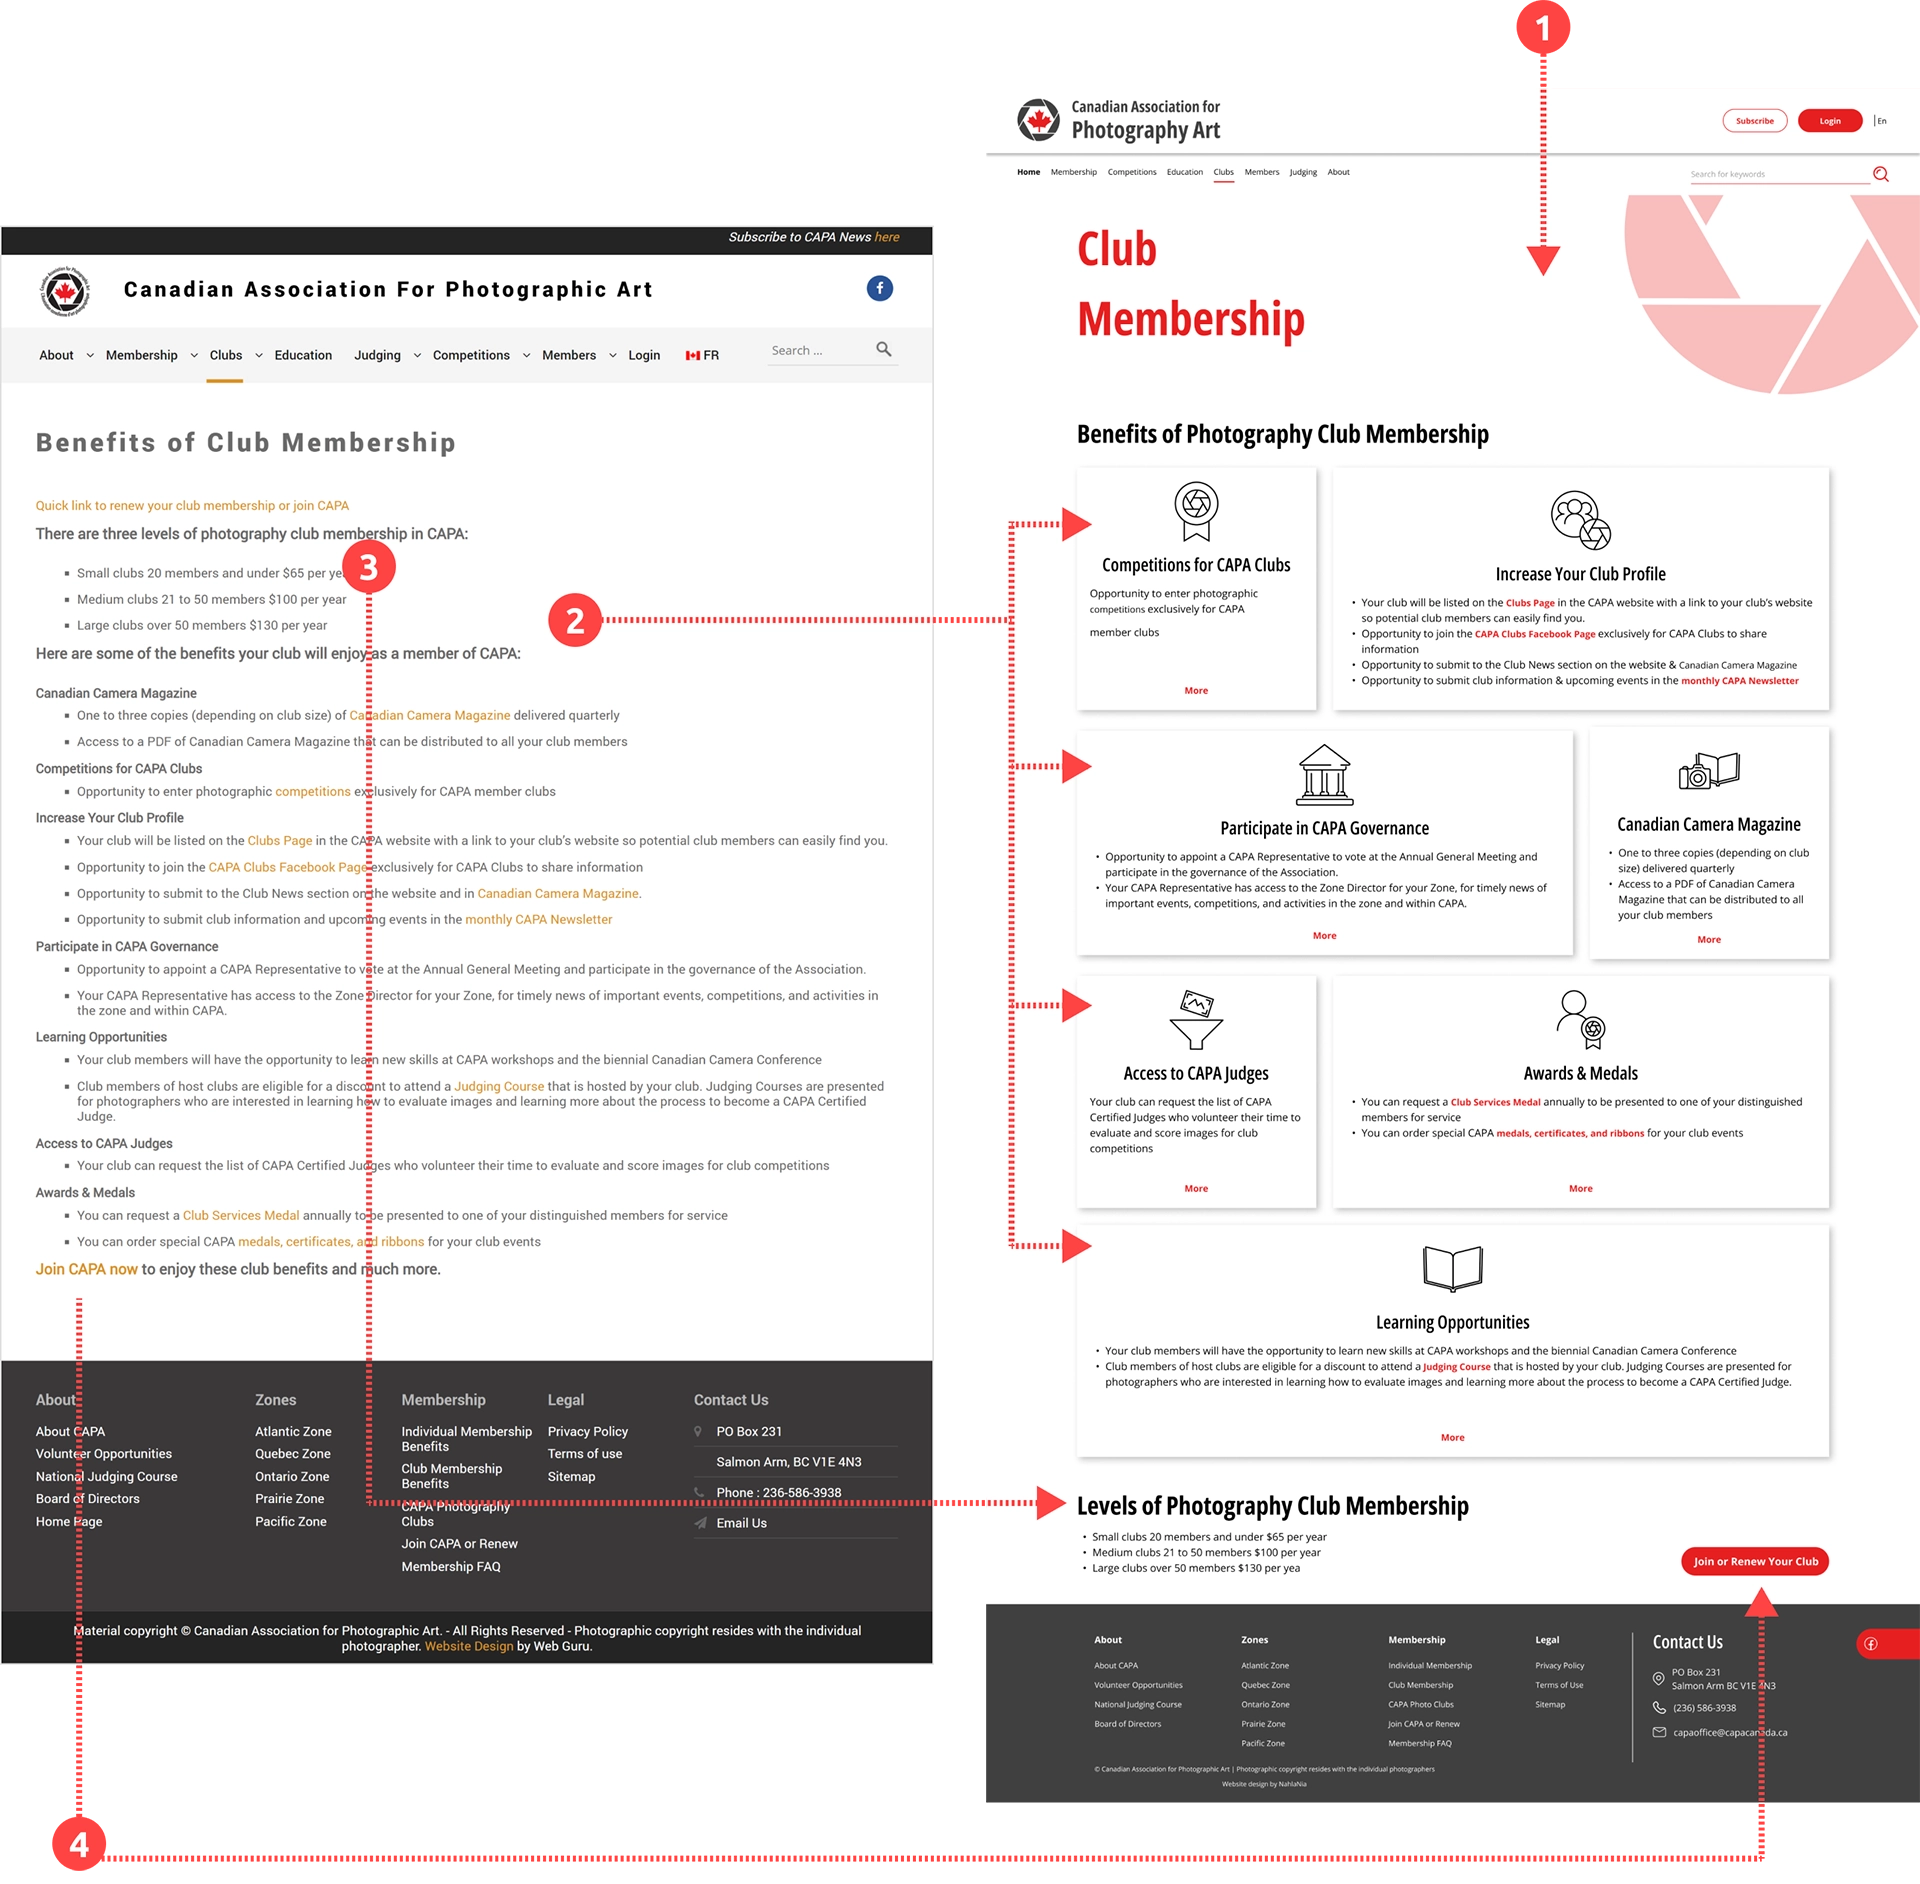
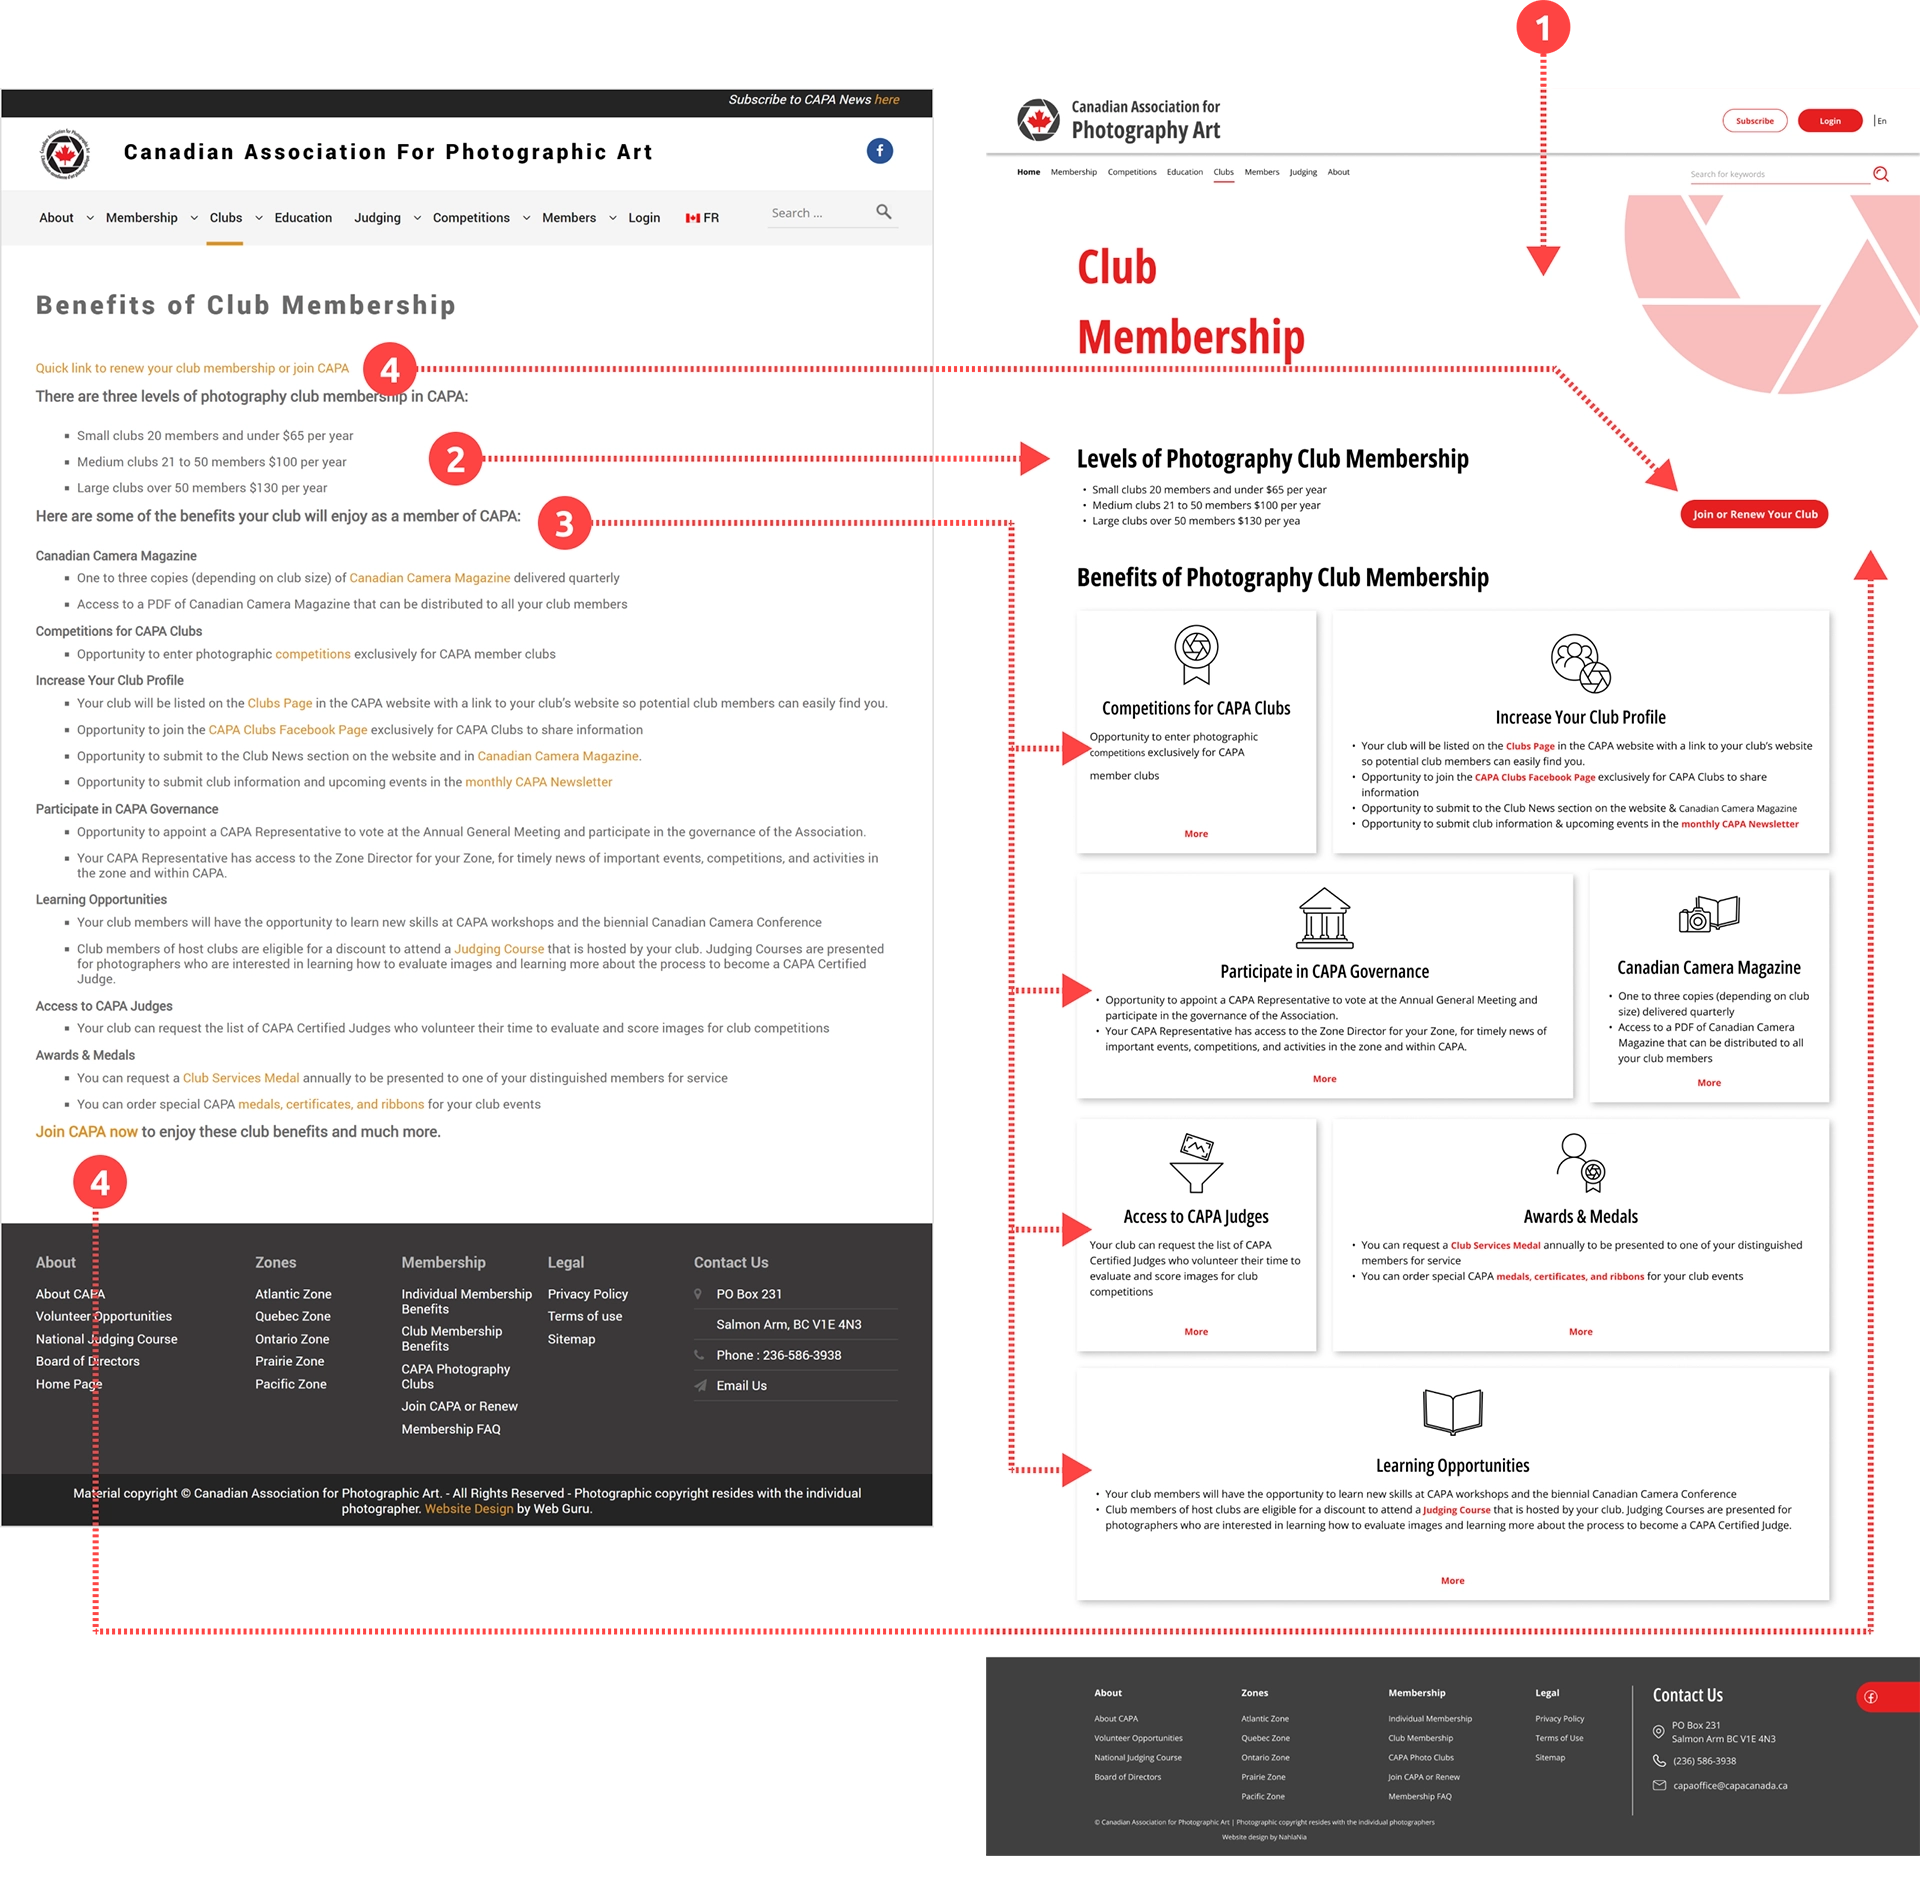
CAPA modified

Changed region(s): [[0.0, 0.0308, 1.0, 1.0], [0.4062, 0.1847, 0.4688, 0.2155]]

diff --git a/UX-UI-Projects/CAPA.html b/UX-UI-Projects/CAPA.html
@@ -231,7 +231,7 @@
         </section>
         <section id="mockup" class="max-width">
             <h2>Mockup</h2>
-            <div class="redesign two-space-after">
+            <div class="mockup1">
                 <h3>Header & Footer</h3>
                 <p class="space-after">In the original design, the header includes three sections, the first of which is not visible enough. Also, the navigation lacks current page status which makes it hard for the visitor to explore the site. Header is also crowded with components that can be arranged more clearly and with a better hierarchy.</p>
                 <p>Here I demonstrate the original design(top) and the redesign(bottom), for the header:</p>
@@ -243,12 +243,12 @@
                 </ol>
                 <p class="remove-space-after">Here I demonstrate the original design(top) and the redesign(bottom), for the footer:</p>
                 <img class="space-after" src="../Assets/Images/CAPA/Side by Side-Footer.webp" alt="">
-                <ol class="ordered-list-style-1-digit space-after" start="4">
+                <ol class="ordered-list-style-1-digit" start="4">
                     <li>Following the same rules in my redesign, I created a new footer. Also, by changing the wording in the footer menu, made it cleaner.</li>
                     <li>I moved the Facebook link into the footer to reduce the elements in the header. By styling it somewhat similar to buttons, it's still attention-grabbing.</li>
                 </ol>
             </div>
-            <div class="redesign two-space-after">
+            <div class="mockup2">
                 <h3>Home Page</h3>
                 <p class="space-after">While the homepage covers the most important features of the website, it only includes random images and headings without any further visual context. This makes it hard for users to understand what the website is about and what it has to offer. To engage users and encourage them to explore the rest of the website, it's essential to provide a clear value proposition on the homepage. Therefore, I redesigned it by defining each feature in a separate section, providing appropriate visual context and a clear call to action.</p>
                 <p>Here I demonstrate the original design(left) and the redesign(right), side by side:</p>
@@ -281,8 +281,8 @@
                     </div>
                 </div>
             </div>
-            <div class="redesign two-space-after">
-                <h3>Competition</h3>
+            <div class="mockup3">
+                <h3>Competition Page</h3>
                 <p class="space-after">Similar to other pages in the original design, the competition page lacks a clear hierarchy and CTA. In my redesign, I focused on these elements along with creating a seamless user experience for a photographer who wants to participate in a competition.</p>
                 <p>Here I demonstrate the original design(left) and the redesign(right), side by side:</p>
                 <img class="space-after" src="../Assets/Images/CAPA/Side by Side-Competition.webp" alt="">
@@ -304,7 +304,40 @@
                     <div class="figure col-m-3">
                         <div class="framed mobile">
                             <div class="v-scrollable" >
-                                <img src="../Assets/Images/CAPA//Competition Single View-Mobile.webp" alt="wireframe">
+                                <img src="../Assets/Images/CAPA/Competition Single View-Mobile.webp" alt="wireframe">
+                            </div>
+                        </div>
+                        <span class="caption">Mobile View</span>
+                    </div>
+                </div>
+            </div>
+            <div class="mockup4">
+                <h3>Club Membership Page</h3>
+                <p class="space-after">Club membership is a crucial aspect of CAPA. However, the page lacks a clear structure and visual appeal. Like other pages, it is missing a visual identity, which makes it difficult for visitors to recognize the site instantly. To ensure design consistency, I created photography-themed icons for use on this page, homepage, and other relevant pages.</p>
+                <p class="remove-space-after">Here I demonstrate the original design(left) and the redesign(right), side by side:</p>
+                <img class="space-after" src="../Assets/Images/CAPA/Side by Side-Club Benefits.webp" alt="">
+                <ol class="ordered-list-style-1-digit space-after">
+                    <li>I designed a cover for this page that showcases the website's theme and displays the page title. This cover can be used on other pages where a photo from a member artist is not applicable.</li>
+                    <li>I updated the page title to "Club Membership" which is more appropriate considering this content on the page.</li>
+                    <li>The club membership benefits are thoughtfully arranged and visually separated into different sections, each with its unique icon that makes it easily recognizable. This redesign not only enhances the aesthetic appeal of the interface but also makes it easier for users to quickly scan through the benefits and identify them.</li>
+                    <li>A clear call to action is placed on the hero section to encourage photographers to become club members or renew their club membership. To ensure its visibility, I checked the heatmap for this page:
+                        <img src="../Assets/Images/CAPA/Membership Benefits-Heatmap.webp" alt="heatmap">
+                    </li>
+                </ol>
+                <p>Following designing for the desktop, I made it responsive to mobile view:</p>
+                <div class="grid align-items-center">
+                    <div class="figure col-m-9">
+                        <div class="framed desktop">
+                            <div class="v-scrollable">
+                                <img src="../Assets/Images/CAPA/Membership Benefits-Desktop.webp" alt="wireframe">
+                            </div>
+                        </div>
+                        <span class="caption">Desktop View</span>
+                    </div>
+                    <div class="figure col-m-3">
+                        <div class="framed mobile">
+                            <div class="v-scrollable" >
+                                <img src="../Assets/Images/CAPA/Membership Benefits-Mobile.webp" alt="wireframe">
                             </div>
                         </div>
                         <span class="caption">Mobile View</span>

diff --git a/dist/css/main.css b/dist/css/main.css
@@ -755,6 +755,15 @@ details[open] summary:hover {
   border-radius: 16px;
 }
 
+li img {
+  margin: 0.5rem auto 0 auto;
+}
+@media screen and (min-width: 768px) {
+  li img {
+    max-width: 50%;
+  }
+}
+
 /* Pagination =================== */
 .pagination {
   display: flex;
@@ -1729,11 +1738,11 @@ footer .contact-wrapper .contact-info ul a:hover {
   font-weight: bold;
   font-style: normal;
 }
-.body-project #user-flow, .body-project #wireframe {
+.body-project #user-flow, .body-project #wireframe, .body-project #mockup {
   display: grid;
   grid-gap: 1rem;
 }
-.body-project #user-flow .wireframe2, .body-project #user-flow .wireframe3, .body-project #user-flow .wireframe4, .body-project #wireframe .wireframe2, .body-project #wireframe .wireframe3, .body-project #wireframe .wireframe4 {
+.body-project #user-flow .wireframe2, .body-project #user-flow .wireframe3, .body-project #user-flow .wireframe4, .body-project #user-flow .mockup2, .body-project #user-flow .mockup3, .body-project #user-flow .mockup4, .body-project #wireframe .wireframe2, .body-project #wireframe .wireframe3, .body-project #wireframe .wireframe4, .body-project #wireframe .mockup2, .body-project #wireframe .mockup3, .body-project #wireframe .mockup4, .body-project #mockup .wireframe2, .body-project #mockup .wireframe3, .body-project #mockup .wireframe4, .body-project #mockup .mockup2, .body-project #mockup .mockup3, .body-project #mockup .mockup4 {
   margin-top: 3rem;
 }
 .body-project #style-guide {

diff --git a/sass/pages/_project.scss b/sass/pages/_project.scss
@@ -325,11 +325,11 @@
         }     
     }
 
-    #user-flow, #wireframe{
+    #user-flow, #wireframe, #mockup{
         display: grid;
         grid-gap: 1rem;
 
-        .wireframe2, .wireframe3, .wireframe4{
+        .wireframe2, .wireframe3, .wireframe4, .mockup2, .mockup3, .mockup4{
             margin-top: 3rem;
         }
     }

diff --git a/sass/components/_image.scss b/sass/components/_image.scss
@@ -133,6 +133,13 @@
     }
 }
 
+li img{
+    margin: .5rem auto 0 auto;
+    @media screen and (min-width: v.$sw-m){
+        max-width: 50%;
+    }
+    
+}
 // section:has(.zoomedIn){
 //     background-color: red;
 
